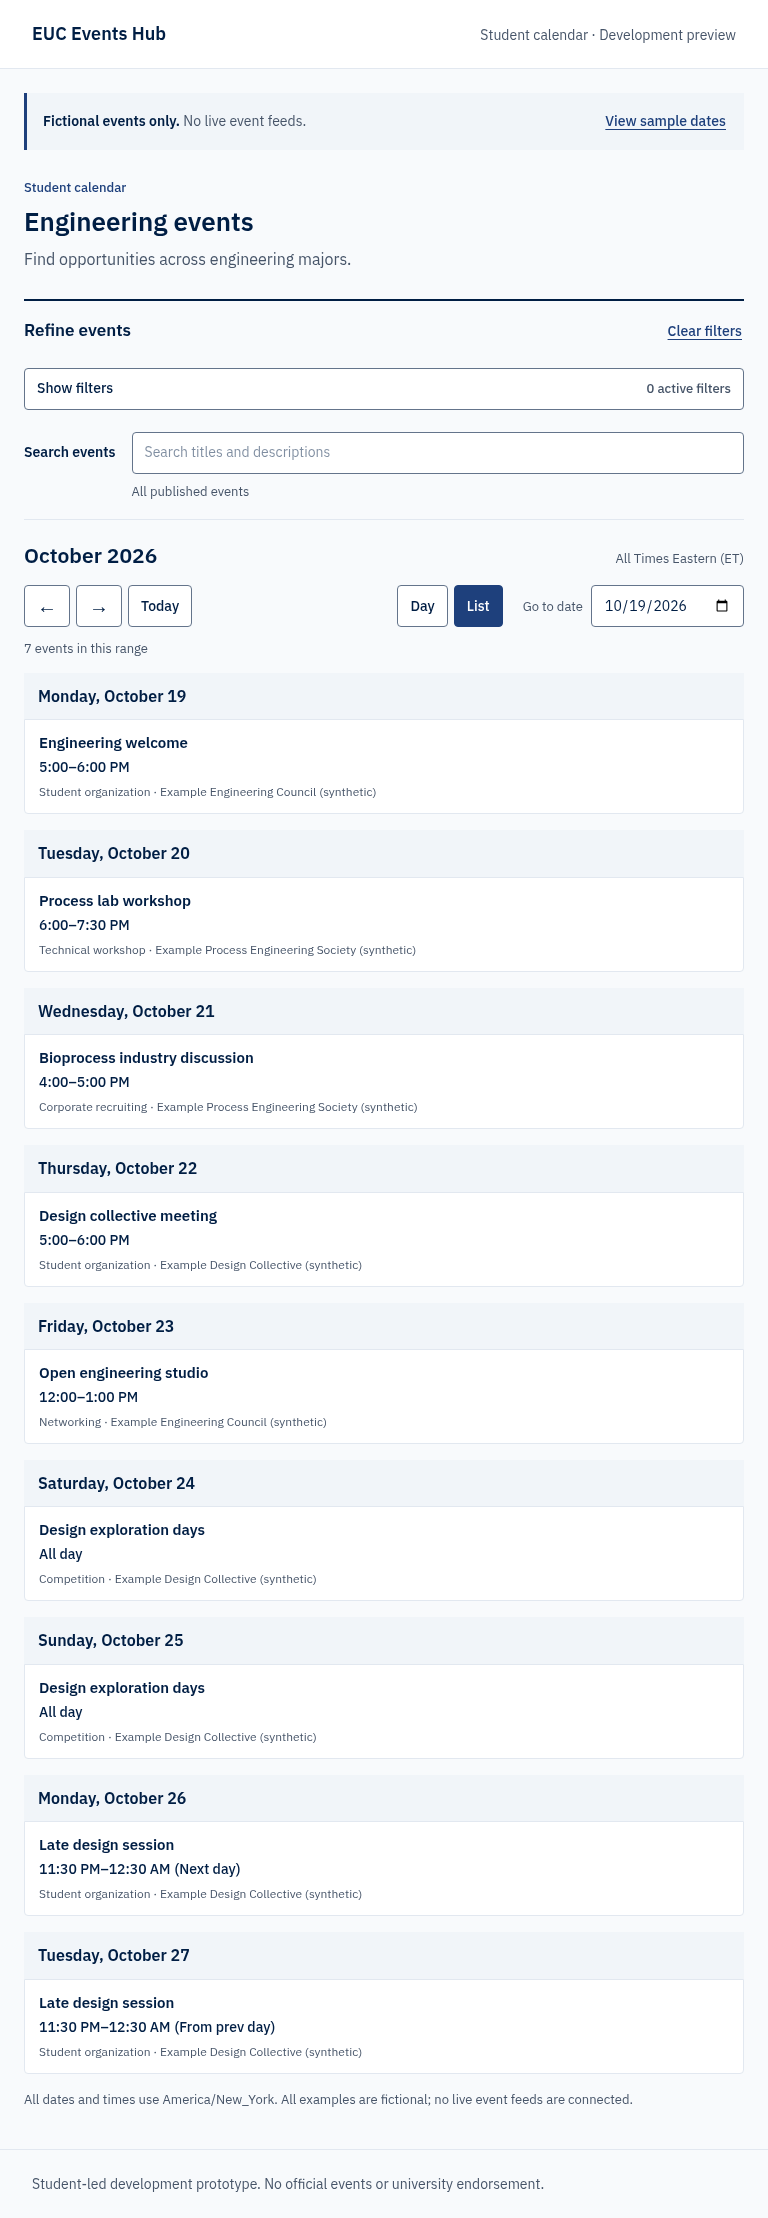
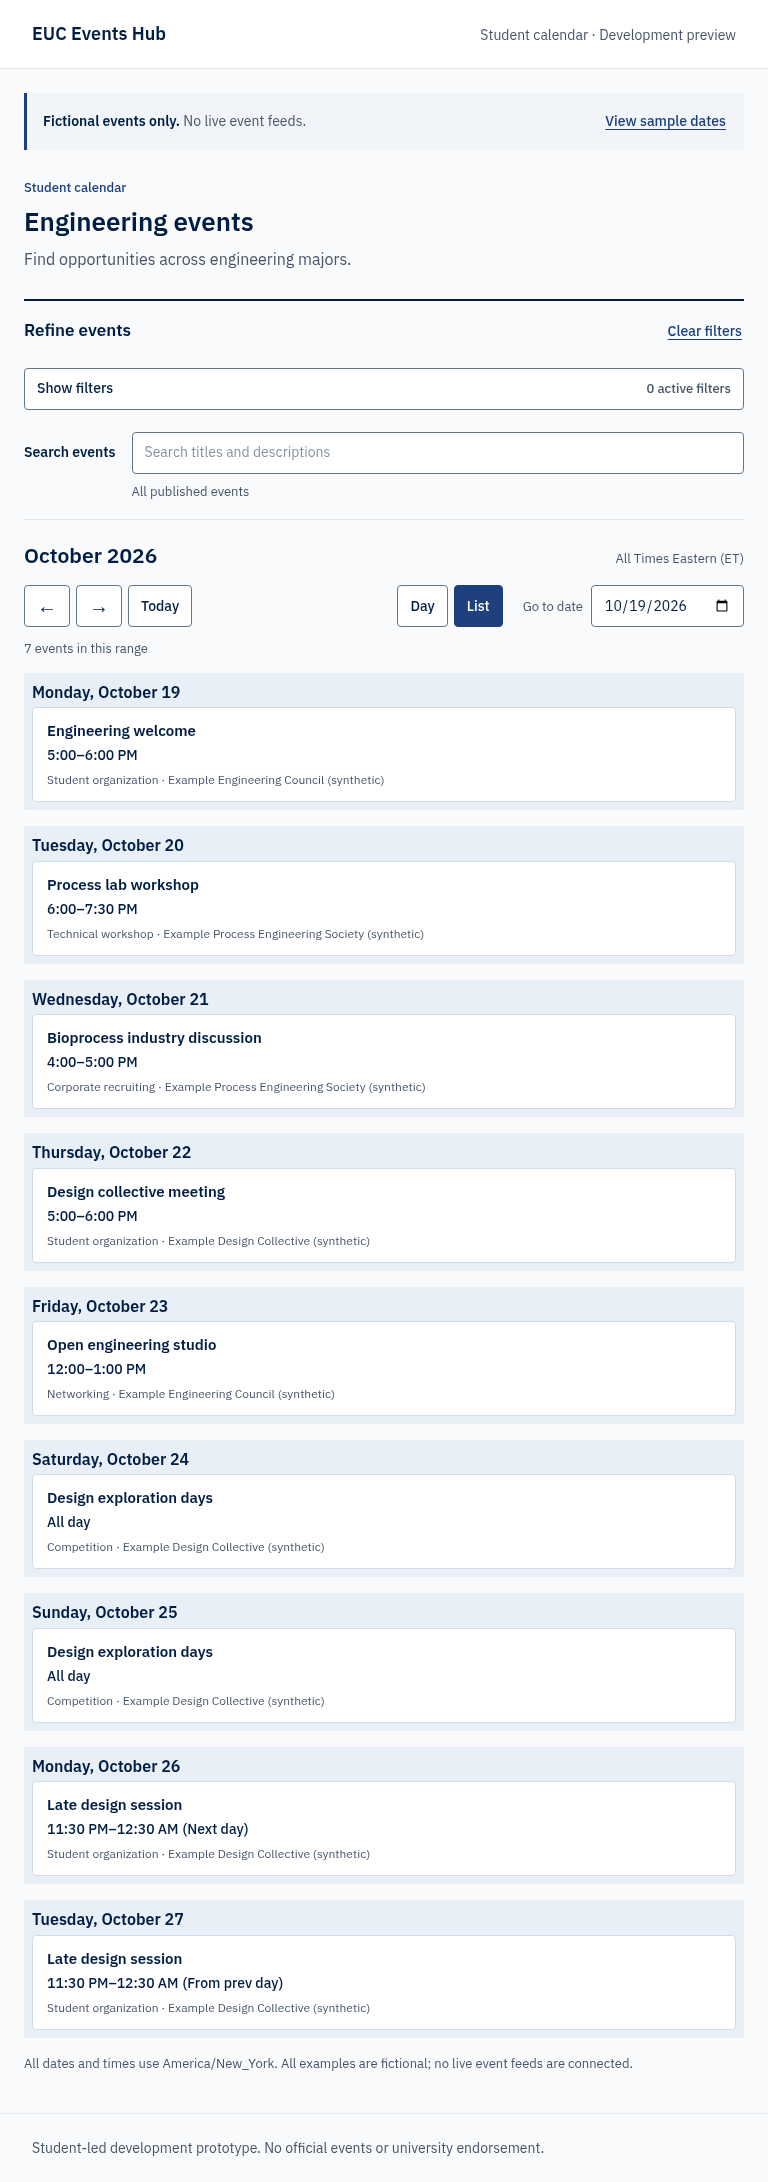
Unify chronological day-group surfaces and inset spacing

diff --git a/tests/student-calendar.spec.ts b/tests/student-calendar.spec.ts
@@ -562,6 +562,13 @@ for (const width of [320, 375, 430, 768]) {
         cardSurface: style(".mobile-list-event").backgroundColor,
         pageSurface: style(".fc-list").backgroundColor,
         shadow: style(".mobile-list-event").boxShadow,
+        groupSurface: style(".fc-list-event").backgroundColor,
+        headerSurface: style(".fc-list-day-cushion").backgroundColor,
+        cardBorderColor: style(".mobile-list-event").borderTopColor,
+        groupInset: style(".fc-list-event-title").paddingLeft,
+        groupBottom: style(".fc-list-event:last-child .fc-list-event-title")
+          .paddingBottom,
+        headerPadding: style(".fc-list-day-cushion").paddingTop,
       };
     });
     expect(styles).toEqual({
@@ -577,13 +584,19 @@ for (const width of [320, 375, 430, 768]) {
       leftBorder: "1px",
       rightBorder: "1px",
       radius: "4px",
-      attachedTopRadius: "0px",
+      attachedTopRadius: "4px",
       cardPadding: "12px 14px",
       itemGap: "8px",
-      headerGap: "0px",
+      headerGap: "4px",
       cardSurface: "rgb(255, 255, 255)",
       pageSurface: "rgb(248, 250, 252)",
       shadow: "none",
+      groupSurface: "rgb(232, 239, 247)",
+      headerSurface: "rgb(232, 239, 247)",
+      cardBorderColor: "rgb(209, 220, 233)",
+      groupInset: "8px",
+      groupBottom: "8px",
+      headerPadding: "8px",
     });
     const panelBox = await rows.nth(1).boundingBox();
     const workshopBox = await rows.nth(2).boundingBox();
@@ -594,15 +607,26 @@ for (const width of [320, 375, 430, 768]) {
       .boundingBox();
     expect(
       nextHeaderBox!.y - (previousDayBox!.y + previousDayBox!.height),
+    ).toBe(24);
+    const previousGroupRowBox = await rows
+      .nth(0)
+      .locator("xpath=ancestor::tr")
+      .boundingBox();
+    expect(
+      nextHeaderBox!.y - (previousGroupRowBox!.y + previousGroupRowBox!.height),
     ).toBe(16);
+    expect(panelBox!.x - nextHeaderBox!.x).toBe(8);
+    expect(
+      nextHeaderBox!.x + nextHeaderBox!.width - (panelBox!.x + panelBox!.width),
+    ).toBe(8);
     const firstHeaderBox = await headers
       .nth(0)
       .locator(".fc-list-day-cushion")
       .boundingBox();
     expect(
       previousDayBox!.y - (firstHeaderBox!.y + firstHeaderBox!.height),
-    ).toBe(0);
-    expect(panelBox!.y - (nextHeaderBox!.y + nextHeaderBox!.height)).toBe(0);
+    ).toBe(4);
+    expect(panelBox!.y - (nextHeaderBox!.y + nextHeaderBox!.height)).toBe(4);
 
     expect(
       await page.evaluate(

diff --git a/app/globals.css b/app/globals.css
@@ -10,6 +10,8 @@
   --color-surface: #ffffff;
   --color-surface-muted: #f1f5f9;
   --color-border: #e2e8f0;
+  --color-day-group: #e8eff7;
+  --color-event-card-border: #d1dce9;
   --color-foreground: #001e44;
   --color-foreground-muted: #475569;
   --color-foreground-inverse: #ffffff;
@@ -710,16 +712,18 @@ button.control[aria-pressed="true"] {
   border-spacing: 0;
 }
 .mobile-calendar .fc .fc-list-day th {
+  background: var(--color-day-group);
   border-bottom: 0;
 }
 .mobile-calendar .fc .fc-list-event {
-  background: transparent;
+  background: var(--color-day-group);
 }
 .mobile-calendar .fc .fc-list-day:not(:first-child) th {
   border-top: 16px solid var(--color-background);
 }
 .mobile-calendar .fc .fc-list-day-cushion {
-  padding: 12px 14px;
+  background: var(--color-day-group);
+  padding: 8px 8px 0;
   font-size: 16px;
   line-height: 1.4;
   font-weight: 600;
@@ -728,12 +732,12 @@ button.control[aria-pressed="true"] {
   font-weight: 600;
 }
 .mobile-calendar .fc .fc-list-event-title {
-  padding: 8px 0 0;
+  padding: 8px 8px 0;
   border: 0;
 }
 .mobile-calendar .fc .mobile-list-event {
   padding: 12px 14px;
-  border: 1px solid var(--color-border);
+  border: 1px solid var(--color-event-card-border);
   border-radius: var(--radius-control);
   background: var(--color-surface);
 }
@@ -744,11 +748,11 @@ button.control[aria-pressed="true"] {
   background: var(--color-surface-muted);
 }
 
-/* Attach the first card to its shared header; later cards retain their gap. */
+/* Shared row backgrounds form one day section without changing table semantics. */
 .mobile-calendar .fc .fc-list-day + .fc-list-event .fc-list-event-title {
-  padding-top: 0;
+  padding-top: 4px;
 }
-.mobile-calendar .fc .fc-list-day + .fc-list-event .mobile-list-event {
-  border-top-left-radius: 0;
-  border-top-right-radius: 0;
+.mobile-calendar .fc .fc-list-event:has(+ .fc-list-day) .fc-list-event-title,
+.mobile-calendar .fc .fc-list-event:last-child .fc-list-event-title {
+  padding-bottom: 8px;
 }

diff --git a/README.md b/README.md
@@ -25,7 +25,7 @@ npm run build
 
 ## Student calendar
 
-The home page supports month, week, day, and chronological list views; previous/next/today navigation; a date jump; and published-only event details. Below 1024px, the default is a chronological month list with an optional day view. Below 1024px, filters collapse behind a labeled control showing the active-filter count. On desktop the sidebar stays visible. Majors, Organizations, and Event categories expand independently and retain selections. The count includes Recommended mode, majors used by that mode, organizations, categories, and nonempty search; majors saved in All Events do not affect results or the count. Mobile chronological lists share a weekday and full-month date header per day without repeating the year within a single-year range (cross-year displayed ranges include years). Date headers use 16px semibold text and 16px separation between day groups across mobile and tablet. Individual event items use a subtle 1px border, white surface, 4px radius, 12px/14px padding, and an 8px gap between cards within each shared date group. Each date header is flush with its first card, whose upper corners are square to visually attach it to the header. They show 15px semibold titles, 14px medium-weight times, and 12px muted category/host information. Overnight rows use Next day or From prev day cues; event details retain full dates. All displayed dates, times, week boundaries, and navigation use `America/New_York`, independently of the browser time zone.
+The home page supports month, week, day, and chronological list views; previous/next/today navigation; a date jump; and published-only event details. Below 1024px, the default is a chronological month list with an optional day view. Below 1024px, filters collapse behind a labeled control showing the active-filter count. On desktop the sidebar stays visible. Majors, Organizations, and Event categories expand independently and retain selections. The count includes Recommended mode, majors used by that mode, organizations, categories, and nonempty search; majors saved in All Events do not affect results or the count. Mobile chronological lists share a weekday and full-month date header per day without repeating the year within a single-year range (cross-year displayed ranges include years). Date headers use 16px semibold text and 16px separation between day groups across mobile and tablet. Each day has a unified light blue-gray surface (#E8EFF7), including its header and the spaces between cards, with 8px inner padding. Individual event items use a subtle 1px border (#D1DCE9), white surface, 4px radius, and 12px/14px padding. The header-to-first-card gap is 4px; same-day cards have 8px gaps. The neutral page background remains visible in the 16px gap between days. They show 15px semibold titles, 14px medium-weight times, and 12px muted category/host information. Overnight rows use Next day or From prev day cues; event details retain full dates. All displayed dates, times, week boundaries, and navigation use `America/New_York`, independently of the browser time zone.
 
 Use All Events to browse every published event, including unclassified examples. Recommended Events uses the selected majors and includes college-wide, explicitly targeted, and inherited host-audience events. Organization and category selections narrow results independently; search matches event titles and descriptions, ignoring case and surrounding whitespace. Clear filters returns to All Events and clears major, host, category, and search selections while preserving date and view.
 
